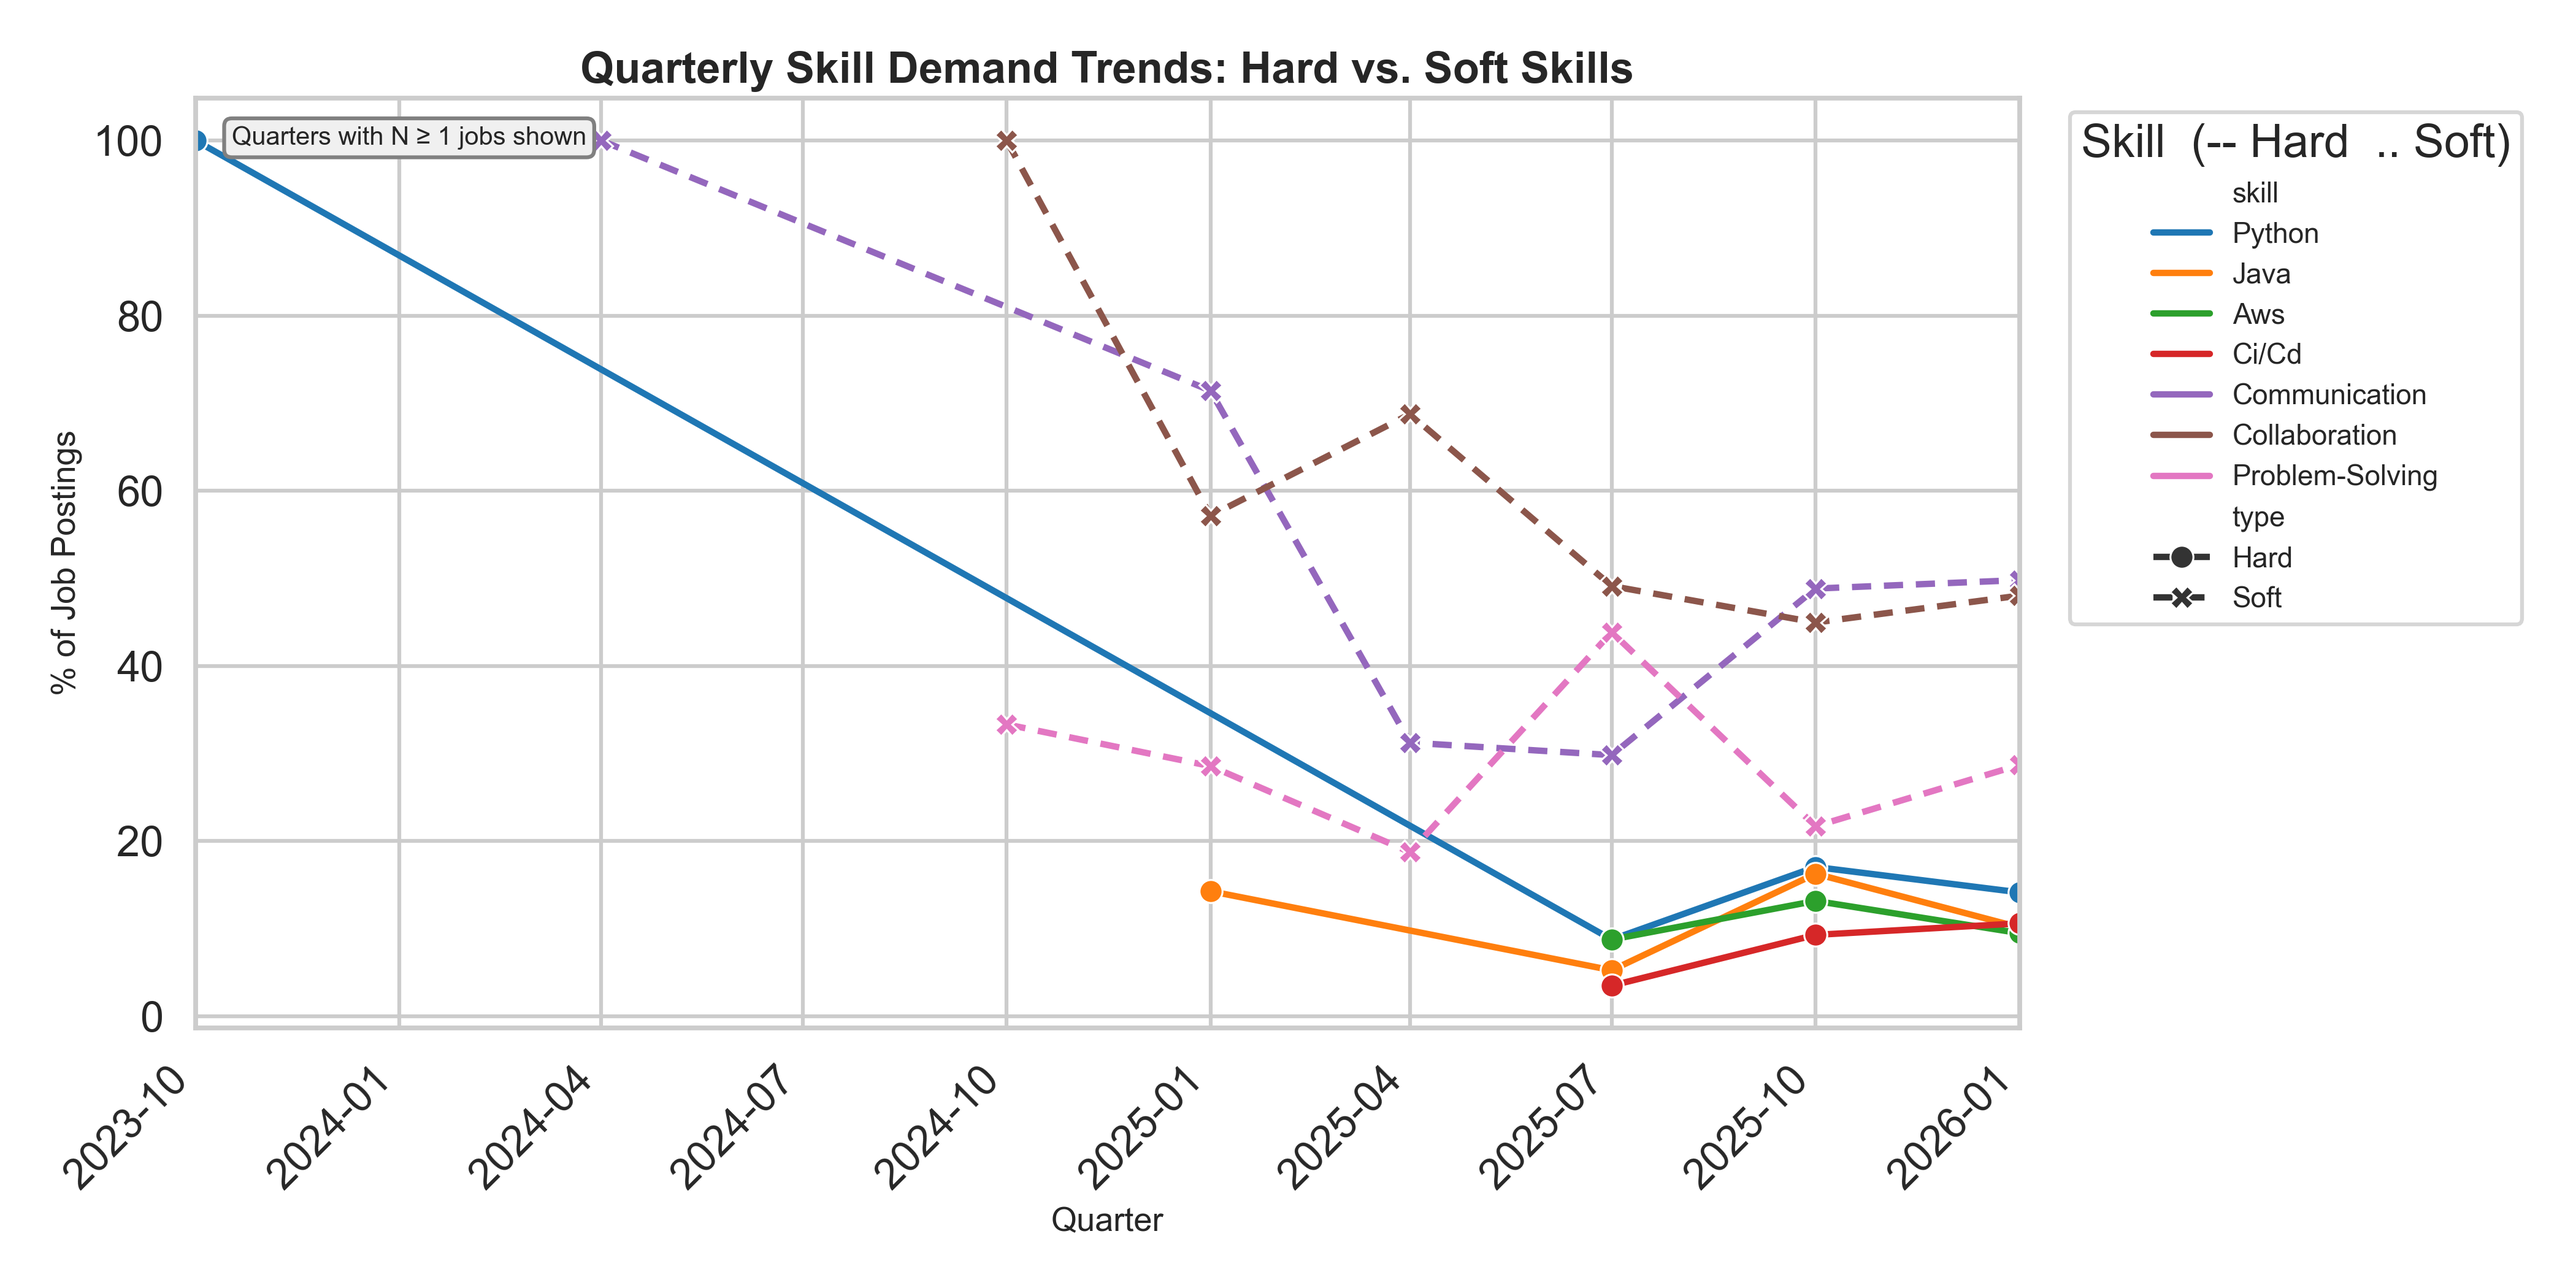
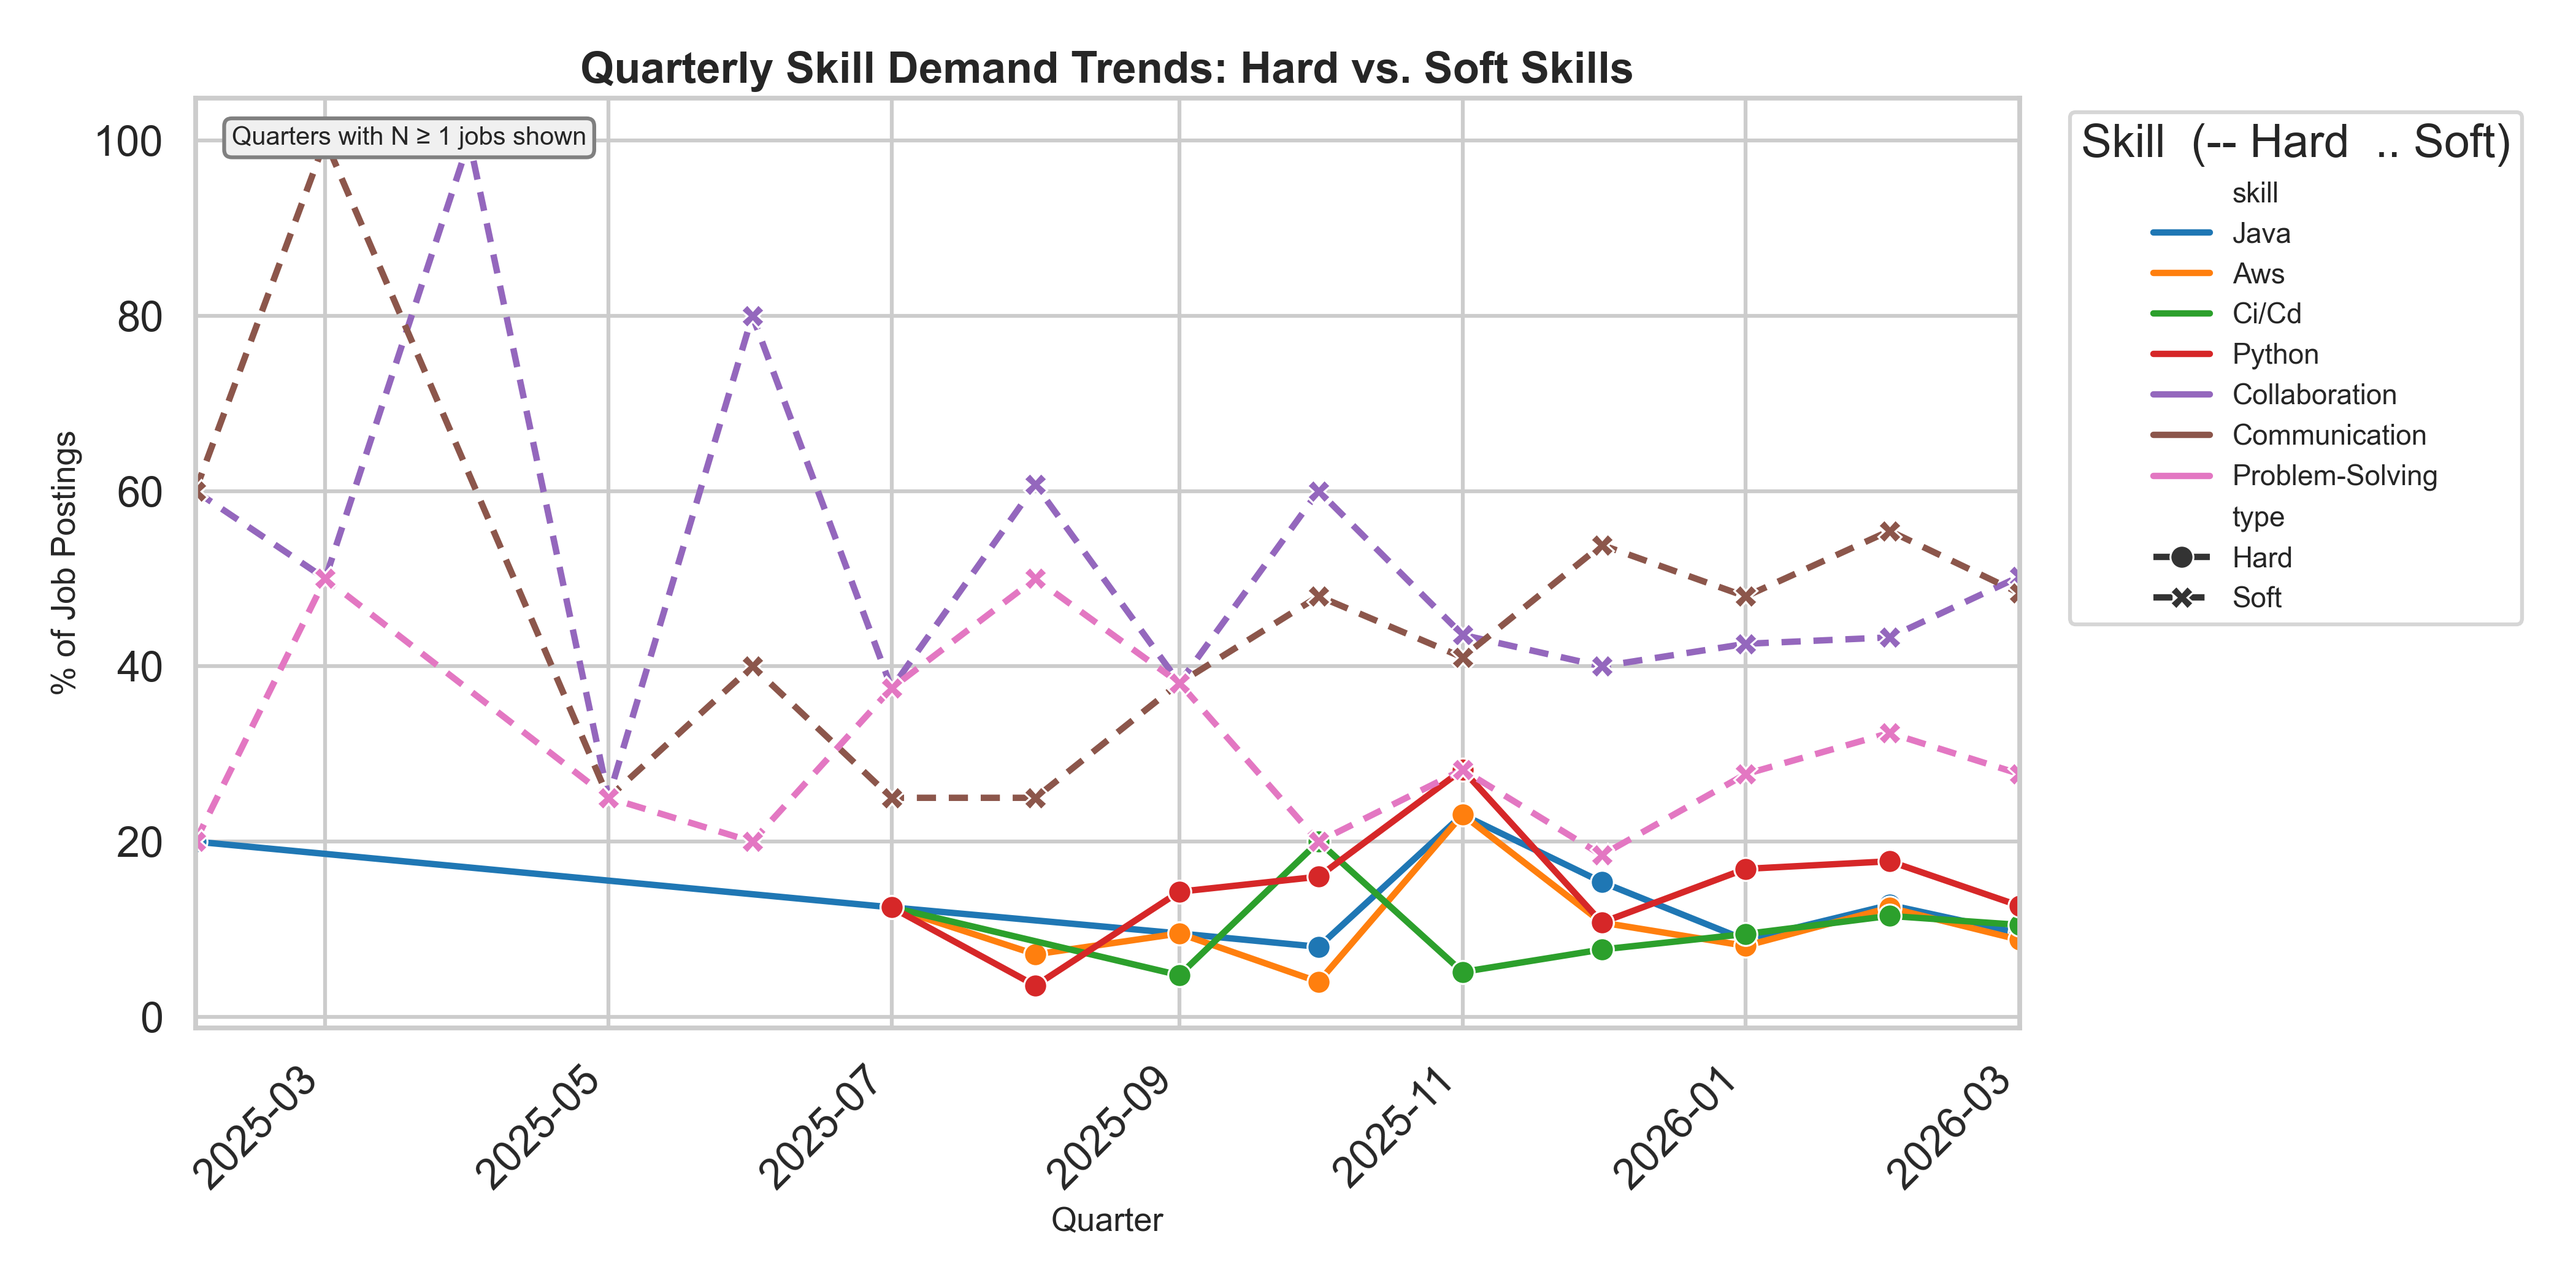
fix: filter to 2025+, switch all time-series to monthly grouping

diff --git a/scrapers/07_visualizations.py b/scrapers/07_visualizations.py
@@ -24,7 +24,9 @@ def main():
     # ── Dates ──────────────────────────────────────────────────────────────
     df["date"] = pd.to_datetime(df["date_posted"], unit="ms", errors="coerce")
     df_dated   = df.dropna(subset=["date"]).copy()
-    df_dated["quarter"] = df_dated["date"].dt.to_period("Q")
+    # Filter to 2025+ only — 2023/2024 have <5 jobs and add no signal
+    df_dated   = df_dated[df_dated["date"] >= "2025-01-01"]
+    df_dated["month"] = df_dated["date"].dt.to_period("M")
 
     # ── Region from 'region' column or fallback from location ───────────────
     if "region" not in df_dated.columns or df_dated["region"].isnull().all():
@@ -47,28 +49,27 @@ def main():
     df["hard_skills"] = df["hard_skills"].apply(_title_list)
     df["soft_skills"] = df["soft_skills"].apply(_title_list)
 
-    # ── Quarterly totals (use ALL dated rows, no artificial clip) ────────────
-    quarter_totals = df_dated.groupby("quarter").size()
-    MIN_N = 1  # show all quarters; job boards only surface active/recent listings so pre-2025 is sparse
-
-    valid_quarters = quarter_totals[quarter_totals >= MIN_N].index
-    df_q = df_dated[df_dated["quarter"].isin(valid_quarters)].copy()
+    # ── Monthly totals ────────────────────────────────────────────────────────
+    month_totals = df_dated.groupby("month").size()
+    MIN_N = 1
+    valid_months = month_totals[month_totals >= MIN_N].index
+    df_m = df_dated[df_dated["month"].isin(valid_months)].copy()
 
     region_totals = df.groupby("region").size()
 
     # ────────────────────────────────────────────────────────────────────────
     # Helper: quarterly time-series for a skill column
     # ────────────────────────────────────────────────────────────────────────
-    def quarterly_trend(df_source, skill_col, top_n):
+    def monthly_trend(df_source, skill_col, top_n):
         exp = df_source.explode(skill_col).dropna(subset=[skill_col])
         exp = exp[exp[skill_col] != ""]
         top = exp[skill_col].value_counts().head(top_n).index.tolist()
         exp = exp[exp[skill_col].isin(top)]
-        counts = exp.groupby(["quarter", skill_col]).size().reset_index(name="count")
+        counts = exp.groupby(["month", skill_col]).size().reset_index(name="count")
         counts["demand_pct"] = counts.apply(
-            lambda r: r["count"] / quarter_totals[r["quarter"]] * 100, axis=1
+            lambda r: r["count"] / month_totals[r["month"]] * 100, axis=1
         )
-        counts["date_plot"] = counts["quarter"].dt.start_time
+        counts["date_plot"] = counts["month"].dt.start_time
         return counts.rename(columns={skill_col: "skill"})
 
     # ────────────────────────────────────────────────────────────────────────
@@ -89,9 +90,9 @@ def main():
     # Chart 1 – Combined Hard & Soft Skills Over Time (quarterly)
     # ═══════════════════════════════════════════════════════════════════════
     print("Generating Chart 1: Combined skills over time (quarterly)...")
-    hard_t = quarterly_trend(df_q, "hard_skills", 4)
+    hard_t = monthly_trend(df_m, "hard_skills", 4)
     hard_t["type"] = "Hard"
-    soft_t = quarterly_trend(df_q, "soft_skills", 3)
+    soft_t = monthly_trend(df_m, "soft_skills", 3)
     soft_t["type"] = "Soft"
     combined_t = pd.concat([hard_t, soft_t])
 
@@ -190,7 +191,7 @@ def main():
     # Chart 5 – Hard skills over time individually (quarterly)
     # ═══════════════════════════════════════════════════════════════════════
     print("Generating Chart 5: Hard skills trend over time...")
-    hard_t5 = quarterly_trend(df_q, "hard_skills", 6)
+    hard_t5 = monthly_trend(df_m, "hard_skills", 6)
     fig, ax = plt.subplots(figsize=(14, 7))
     sns.lineplot(data=hard_t5, x="date_plot", y="demand_pct", hue="skill",
                  markers=True, linewidth=2.5, palette="tab10", markersize=9, ax=ax)
@@ -209,7 +210,7 @@ def main():
     # Chart 6 – Soft skills over time individually (quarterly)
     # ═══════════════════════════════════════════════════════════════════════
     print("Generating Chart 6: Soft skills trend over time...")
-    soft_t5 = quarterly_trend(df_q, "soft_skills", 5)
+    soft_t5 = monthly_trend(df_m, "soft_skills", 5)
     fig, ax = plt.subplots(figsize=(14, 7))
     sns.lineplot(data=soft_t5, x="date_plot", y="demand_pct", hue="skill",
                  markers=True, linewidth=2.5, palette="tab10", markersize=9, ax=ax)
